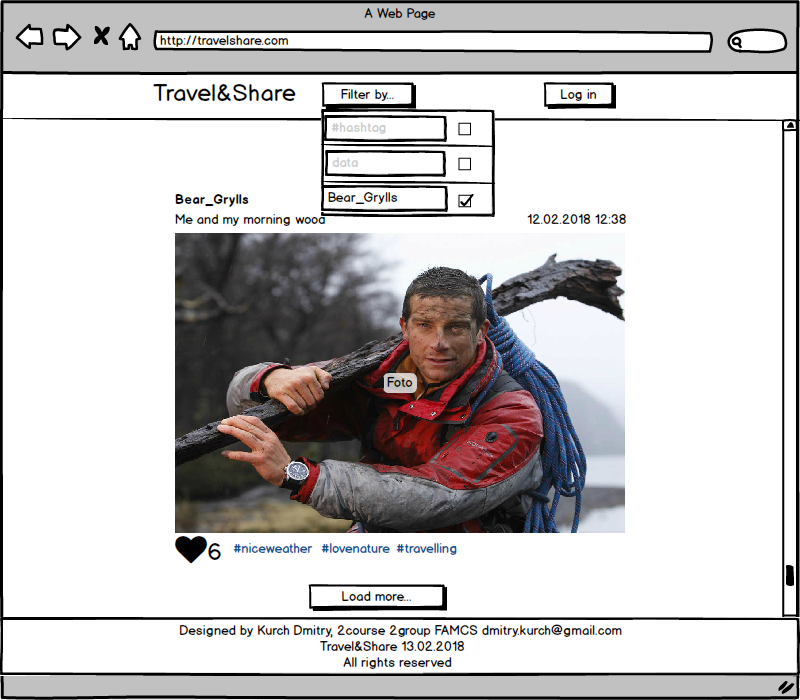
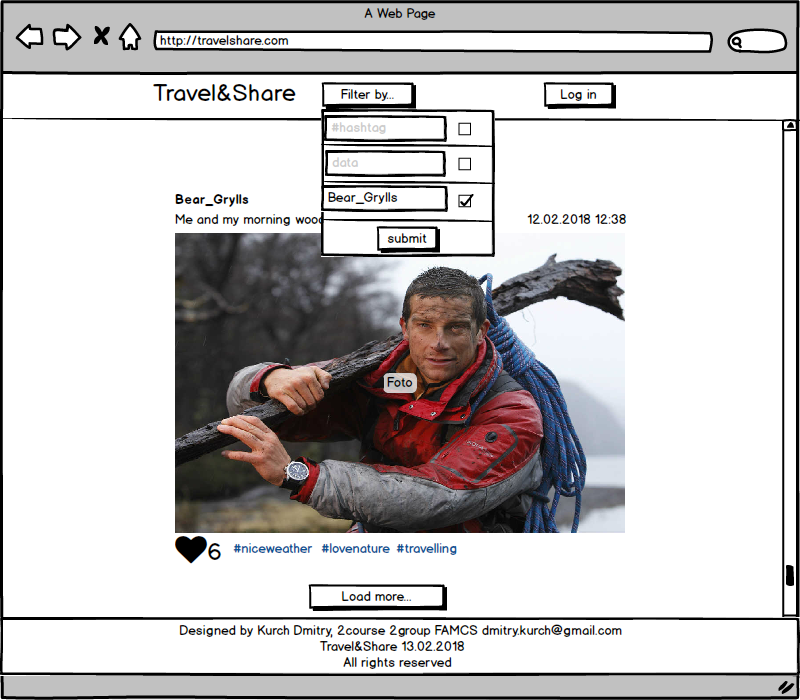
Site template done. Now working on styles

Changed region(s): [[0.375, 0.3, 0.625, 0.39]]

diff --git a/Task3/index.html b/Task3/index.html
@@ -1,0 +1,104 @@
+<!DOCTYPE html>
+<html lang="en">
+
+<head>
+    <meta charset="UTF-8">
+    <link rel="stylesheet" type="text/css" href="style.css">
+    <script defer src="fontawesome-free-5.0.6/on-server/js/fontawesome-all.js"></script>
+    <title>Travel&Share</title>
+</head>
+
+<body>
+
+<div class = "hat">
+    <div class = "hatElement">
+        <header>
+            Travel&Share
+        </header>
+    </div>
+    <nav>
+        <div class = "hatElement">
+            <button>
+                Filter by...
+            </button>
+        </div>
+        <div class = "hatElement">
+            <i class="far fa-image"></i>
+            <button>
+                Add photo
+            </button>
+        </div>
+        <div class = "hatElement">
+            Bear_Grylls
+            <button>
+                Log out
+            </button>
+        </div>
+    </nav>
+    <div style="clear:both"></div>
+</div>
+
+<div class = "filter">
+    <form>
+        <div class = "filterElement">
+            <input type = "text" name = "hashtagFilter" value = "#lovenature">
+            <input type = "checkbox" name = "checkHashtagFilter">
+        </div>
+        <div class = "filterElement">
+            <input type = "date" name = "dateFilter" >
+            <input type = "checkbox" name = "checkDateFilter">
+        </div>
+        <div class = "filterElement">
+            <input type = "text" name = "nameFilter" value = "Bear_Grylls">
+            <input type = "checkbox" name = "checkNameFilter">
+        </div>
+        <div class = "buttonFilter">
+            <input type = "submit" value = "Submit">
+        </div>
+    </form>
+</div>
+
+<div class = "main">
+
+    <div align="center">
+        <div class = "post">
+            <div class = "postElement">
+                <div class = "namePostElement">Bear_Grylls</div>
+                <div class = "descriptionPostElement">Me and my morning wood</div>
+                <div class = "dataPostElement">22.02.2018</div>
+            </div>
+            <div style="clear:both"></div>
+            <div class = "postElement">
+                <img src = "images/Bear.jpg" alt = "Bear_Grylls" class = "image">
+            </div>
+            <div class = "postElement">
+                <div class = "like">
+                    <i class="fas fa-heart"></i>
+                    6
+                </div>
+                <div class = "buttonGroup">
+                    <button>
+                        edit
+                    </button>
+                    <button>
+                        delete
+                    </button>
+                </div>
+                <div class = "hashtag">#niceweather</div>
+                <div class = "hashtag">#lovenature</div>
+                <div class = "hashtag">#travelling</div>
+            </div>
+            <div style="clear:both"></div>
+        </div>
+    </div>
+
+    <div class = "footer">
+        <p class = "footerElement">Designed by Kurch Dmitry, 2course 2group FAMCS BSU fpm.kurch@bsu.by</p>
+        <p class = "footerElement">Travel&Share 23.02.2018</p>
+        <p class = "footerElement">All rights reserved</p>
+    </div>
+
+</div>
+
+</body>
+</html>

diff --git a/Task3/style.css b/Task3/style.css
@@ -1,0 +1,100 @@
+body{
+    margin: 0;
+    padding: 0;
+}
+
+.main{
+    position: relative;
+    margin-top:4.4%;
+    padding:1%;
+    background-color:aliceblue;
+}
+
+.hat{
+    position:fixed;
+    z-index:2;
+    width:82%;
+    top:0;
+    height: 10%;
+    padding-left: 10%;
+    padding-right: 10%;
+    background-color:white;
+    border-bottom: solid 1px;
+}
+
+.hatElement{
+    margin: 1%;
+    padding: 1%;
+    width: 21%;
+    text-align: center;
+    float:left;
+}
+
+.filter{
+    position:fixed;
+    z-index:3;
+    background-color:white;
+    left:30%;
+    width: 20%;
+    border: solid 2px;
+}
+
+.filterElement{
+    border-bottom: solid 1px;
+    padding: 3px;
+}
+
+.buttonFilter{
+    padding: 3px;
+    text-align:center;
+}
+.post{
+    background-color:white;
+    margin: 5%;
+    height:50%;
+    width:50%;
+}
+
+.namePostElement{
+    text-align:left;
+    margin :3px;
+}
+
+.descriptionPostElement{
+    margin: 3px;
+    float:left;
+}
+
+.dataPostElement{
+    margin:3px;
+    float:right;
+}
+
+.image{
+    height: 100%;
+    width:100%;
+}
+
+.like{
+    float:left;
+    margin-right:5px;
+}
+
+.buttonGroup{
+    float: right;
+}
+
+.hashtag{
+    float: left;
+}
+
+.footer{
+    position:relative;
+    border-top:solid 1px;
+    background-color:gainsboro;
+    text-align:center;
+}
+
+.footerElement{
+    margin:3px;
+}
